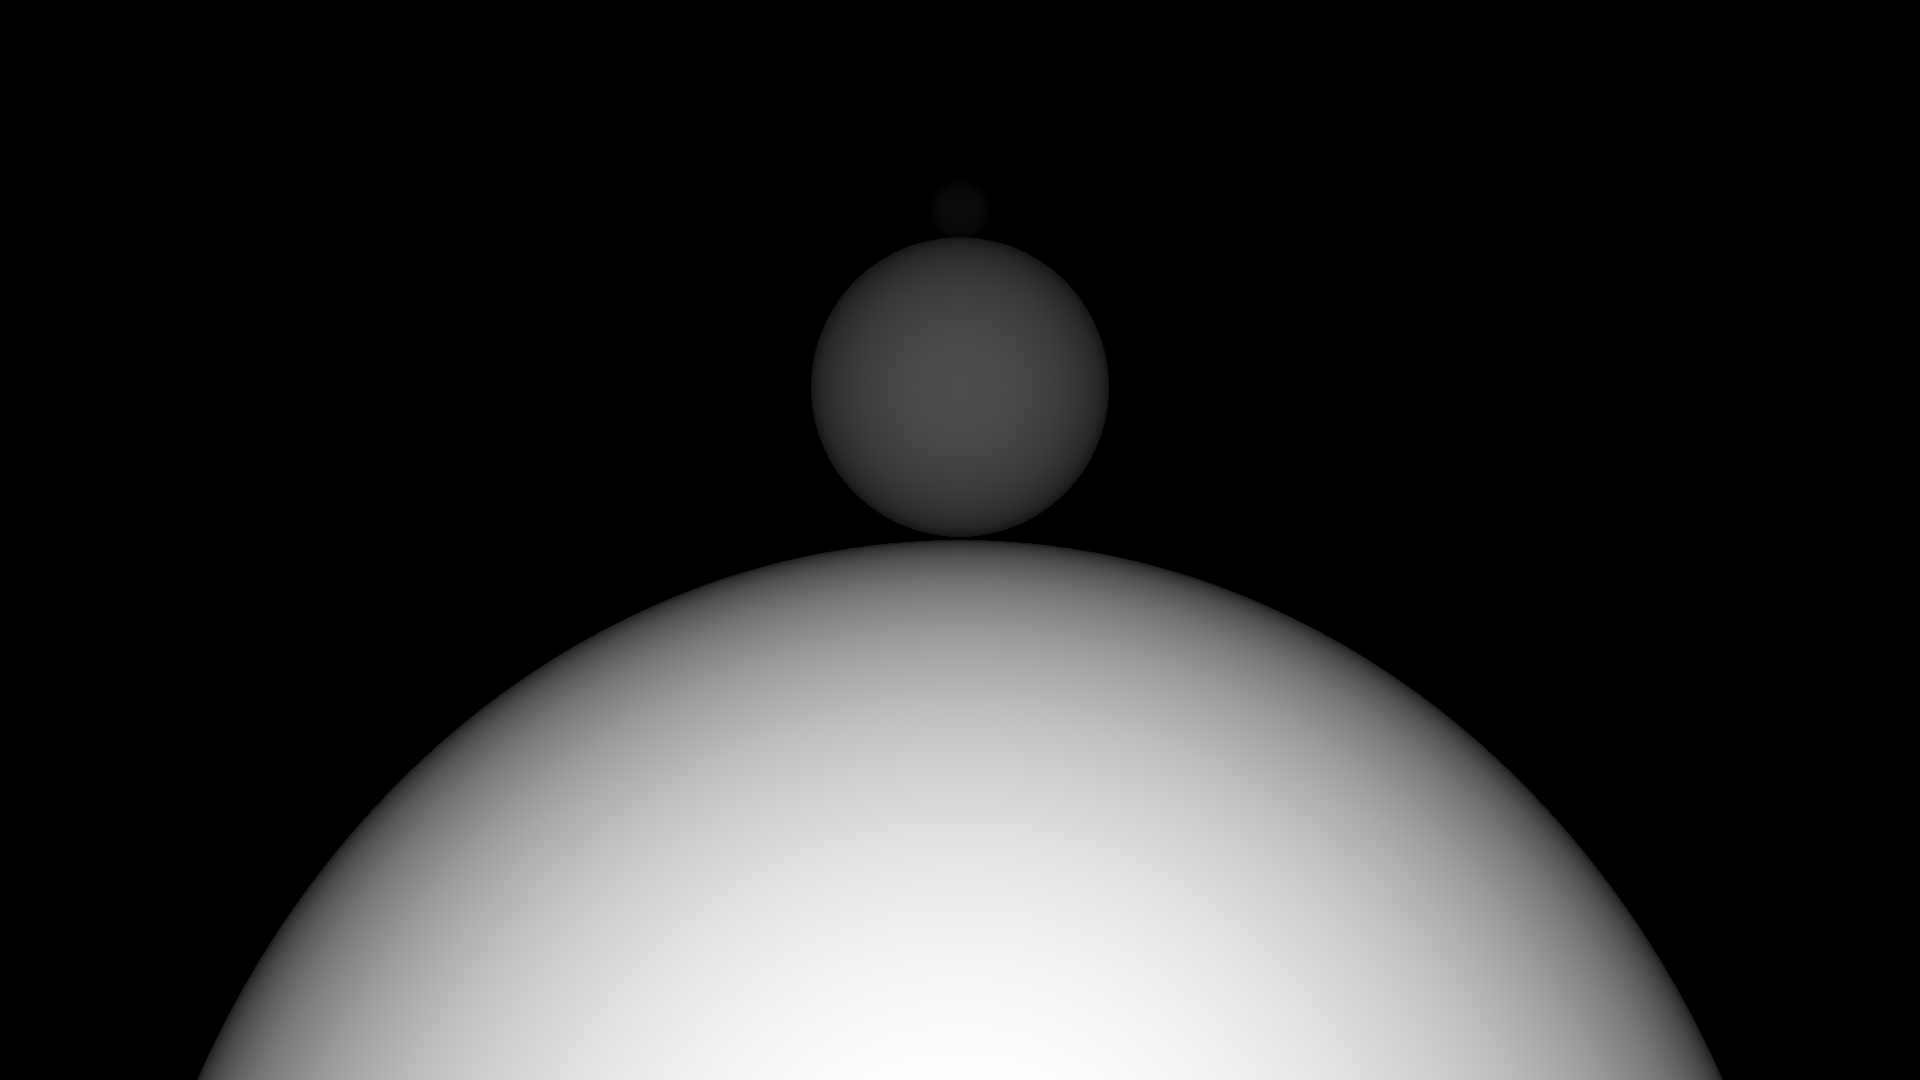
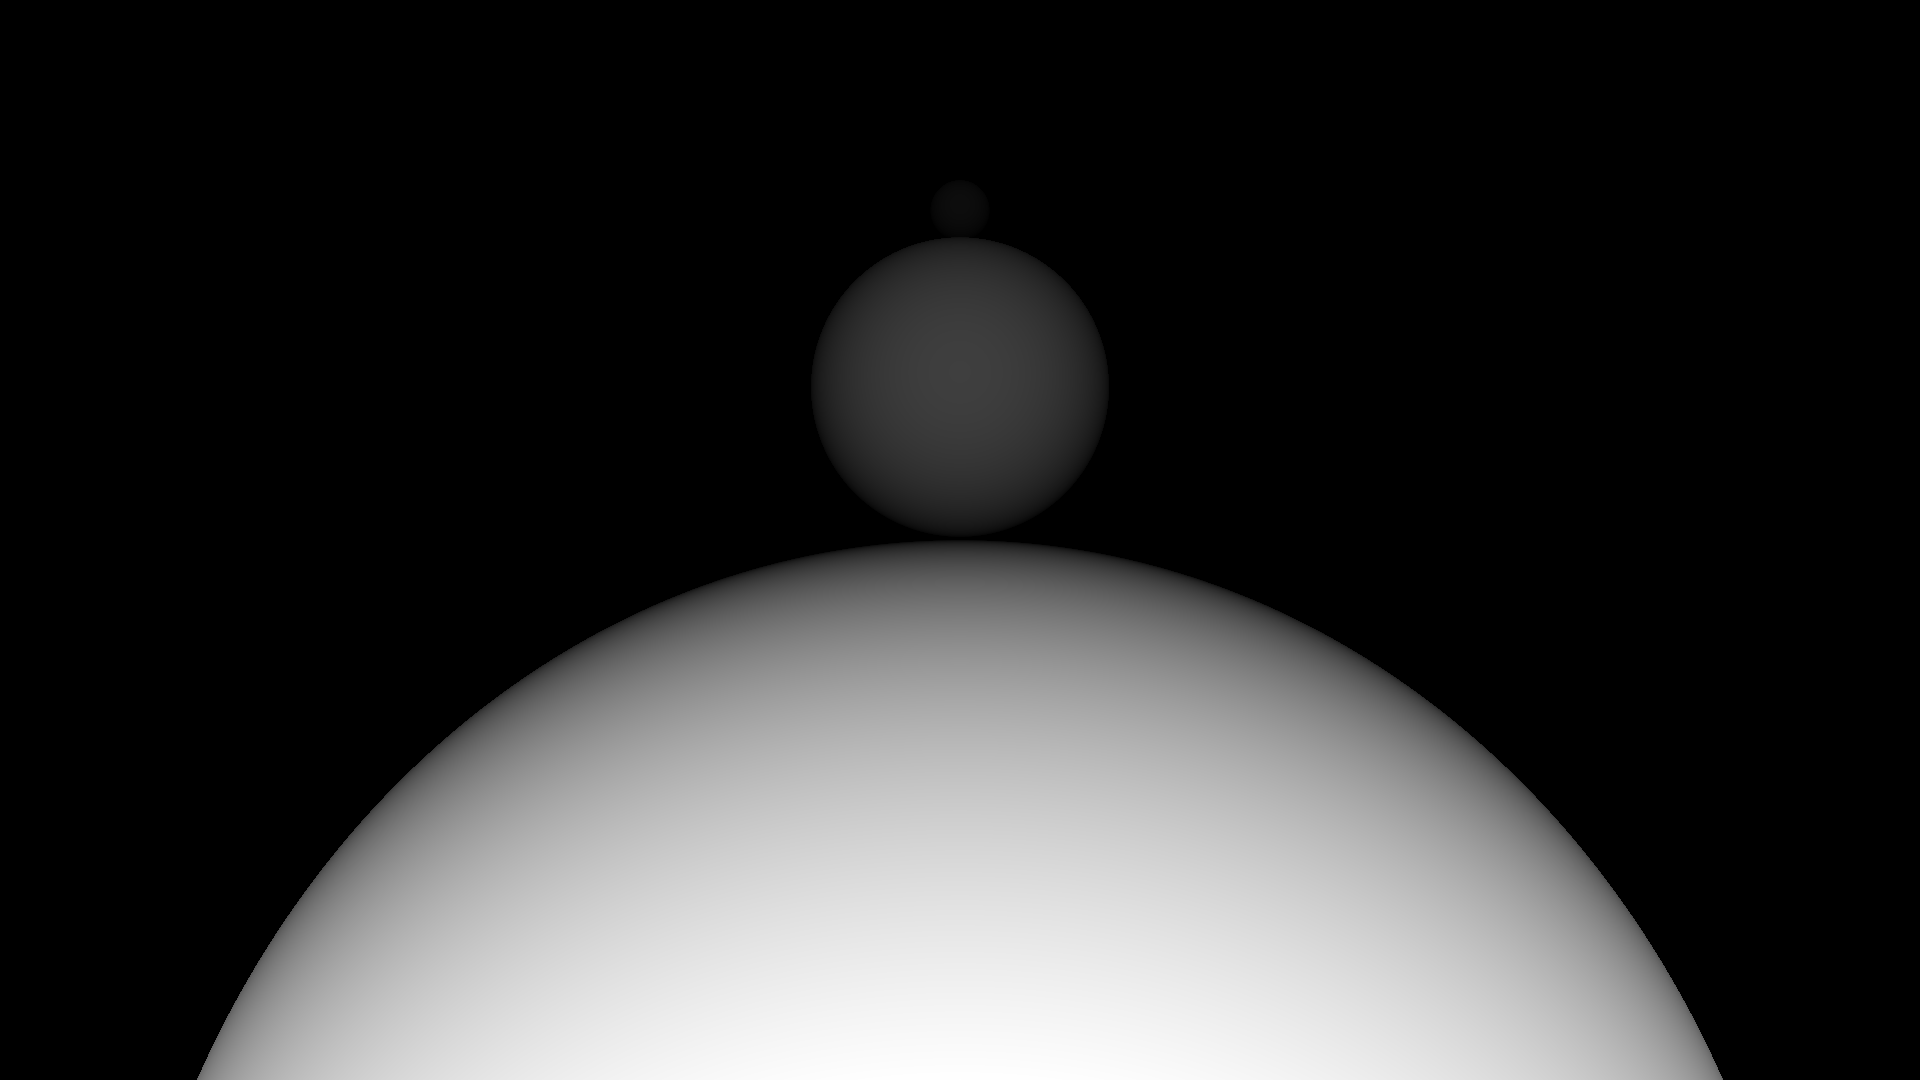
No longer normalizing rays. Simplified logic

Changed region(s): [[0.75, 0.7028, 0.9062, 1.0], [0.0938, 0.7028, 0.25, 1.0]]

diff --git a/src/main.cpp b/src/main.cpp
@@ -1,7 +1,6 @@
 #include "scene.h"
 #include "cyCore/cyVector.h"
 #include "cyCore/cyMatrix.h"
-//#include "viewport.cpp"
 
 #include <iostream>
 #include <cmath>
@@ -13,7 +12,6 @@ bool shootRay(const Node* const node, const Ray& ray, HitInfo& bestHitInfo)
 {
     const Object* obj{ node->GetNodeObj() };
     Ray localRay{ node->ToNodeCoords(ray) };
-    localRay.dir.Normalize();
 
     bool hitObject{ false };
     if (obj != nullptr)
@@ -22,12 +20,8 @@ bool shootRay(const Node* const node, const Ray& ray, HitInfo& bestHitInfo)
         hitInfo.Init();
         if (obj->IntersectRay(localRay, hitInfo))
         {
-            const Vec3f localHitPoint{ localRay.p + localRay.dir.GetNormalized() * hitInfo.z };
-            const Vec3f hitPointInParentSpace{ node->TransformFrom(localHitPoint) };
-            const float parentSpaceHitPointDepth{ (hitPointInParentSpace - ray.p).Length() };
-
             bestHitInfo.node = node;
-            bestHitInfo.z = parentSpaceHitPointDepth;
+            bestHitInfo.z = hitInfo.z;
             hitObject = true;
         }
     }
@@ -38,14 +32,10 @@ bool shootRay(const Node* const node, const Ray& ray, HitInfo& bestHitInfo)
         childHitInfo.Init();
         if (shootRay(node->GetChild(i), localRay, childHitInfo))
         {
-            const Vec3 localHitPoint{ localRay.p + localRay.dir.GetNormalized() * childHitInfo.z };
-            const Vec3f hitPointInParentSpace{ node->TransformFrom(localHitPoint) };
-            const float parentSpaceHitPointDepth{ (hitPointInParentSpace - ray.p).Length() };
-
-            if (parentSpaceHitPointDepth < bestHitInfo.z)
+            if (childHitInfo.z < bestHitInfo.z)
             {
                 bestHitInfo.node = node->GetChild(i);
-                bestHitInfo.z = parentSpaceHitPointDepth;
+                bestHitInfo.z = childHitInfo.z;
             }
             hitObject = true;
         }
@@ -84,7 +74,8 @@ int main()
                 y,
                 -1.0f
             };
-            const Ray worldRay{ scene.camera.pos, (cameraMat * rayDir).GetNormalized() };
+            //const Ray worldRay{ scene.camera.pos, (cameraMat * rayDir).GetNormalized() };
+            const Ray worldRay{ scene.camera.pos, (cameraMat * rayDir) };
 
 
             HitInfo hitInfo{};

diff --git a/src/Sphere.cpp b/src/Sphere.cpp
@@ -3,25 +3,23 @@
 #include <iostream>
 #include <cmath>
 
-bool Sphere::IntersectRay( Ray const &normalizedLocalRay, HitInfo &hInfo, int hitSide ) const
+bool Sphere::IntersectRay(const Ray& localRay, HitInfo& hitInfo, int hitSide) const
 {
-    const float sphereToRayDist{ -normalizedLocalRay.p.Dot(normalizedLocalRay.dir) };
-    const Vec3f projectCenterToRayDir{ normalizedLocalRay.p + normalizedLocalRay.dir * sphereToRayDist };
+    const float a{ localRay.dir.Dot(localRay.dir) };
+    const float b{ 2 * localRay.dir.Dot(localRay.p) };
+    const float c{ localRay.p.Dot(localRay.p) - 1.0f };
 
-    if (projectCenterToRayDir.Length() > 1.0f)
-        return false;
+    const float discriminant{ b*b - 4*a*c };
+    if (discriminant < 0.0f) return hitSide == HIT_NONE;
 
-    const float x{ sqrtf(1.0f - projectCenterToRayDir.LengthSquared()) };
-    const float hitPoint1{ sphereToRayDist - x };
-    if (hitPoint1 < 0.0f)
-        return false;
+    const float discriminantSquareRoot{ sqrtf(discriminant) };
+    const float inverse2A{ 1.0f / (2.0f * a) };
+    const float t1{ (-b - discriminantSquareRoot) * inverse2A };
+    //const float t2{ (-b + discriminantSquareRoot) * inverse2A };
 
-    // Maybe this is unnecessary?
-    const Vec3f surfaceHitSpot{ normalizedLocalRay.p + normalizedLocalRay.dir * hitPoint1 };
-    if (surfaceHitSpot.GetNormalized().Dot(normalizedLocalRay.dir) > 0.0f)
-        return false;
+    if (t1 < 0.0f) return false;
 
-    hInfo.z = hitPoint1;
-    hInfo.front = true;
+    hitInfo.z = t1;
     return true;
 }
+
